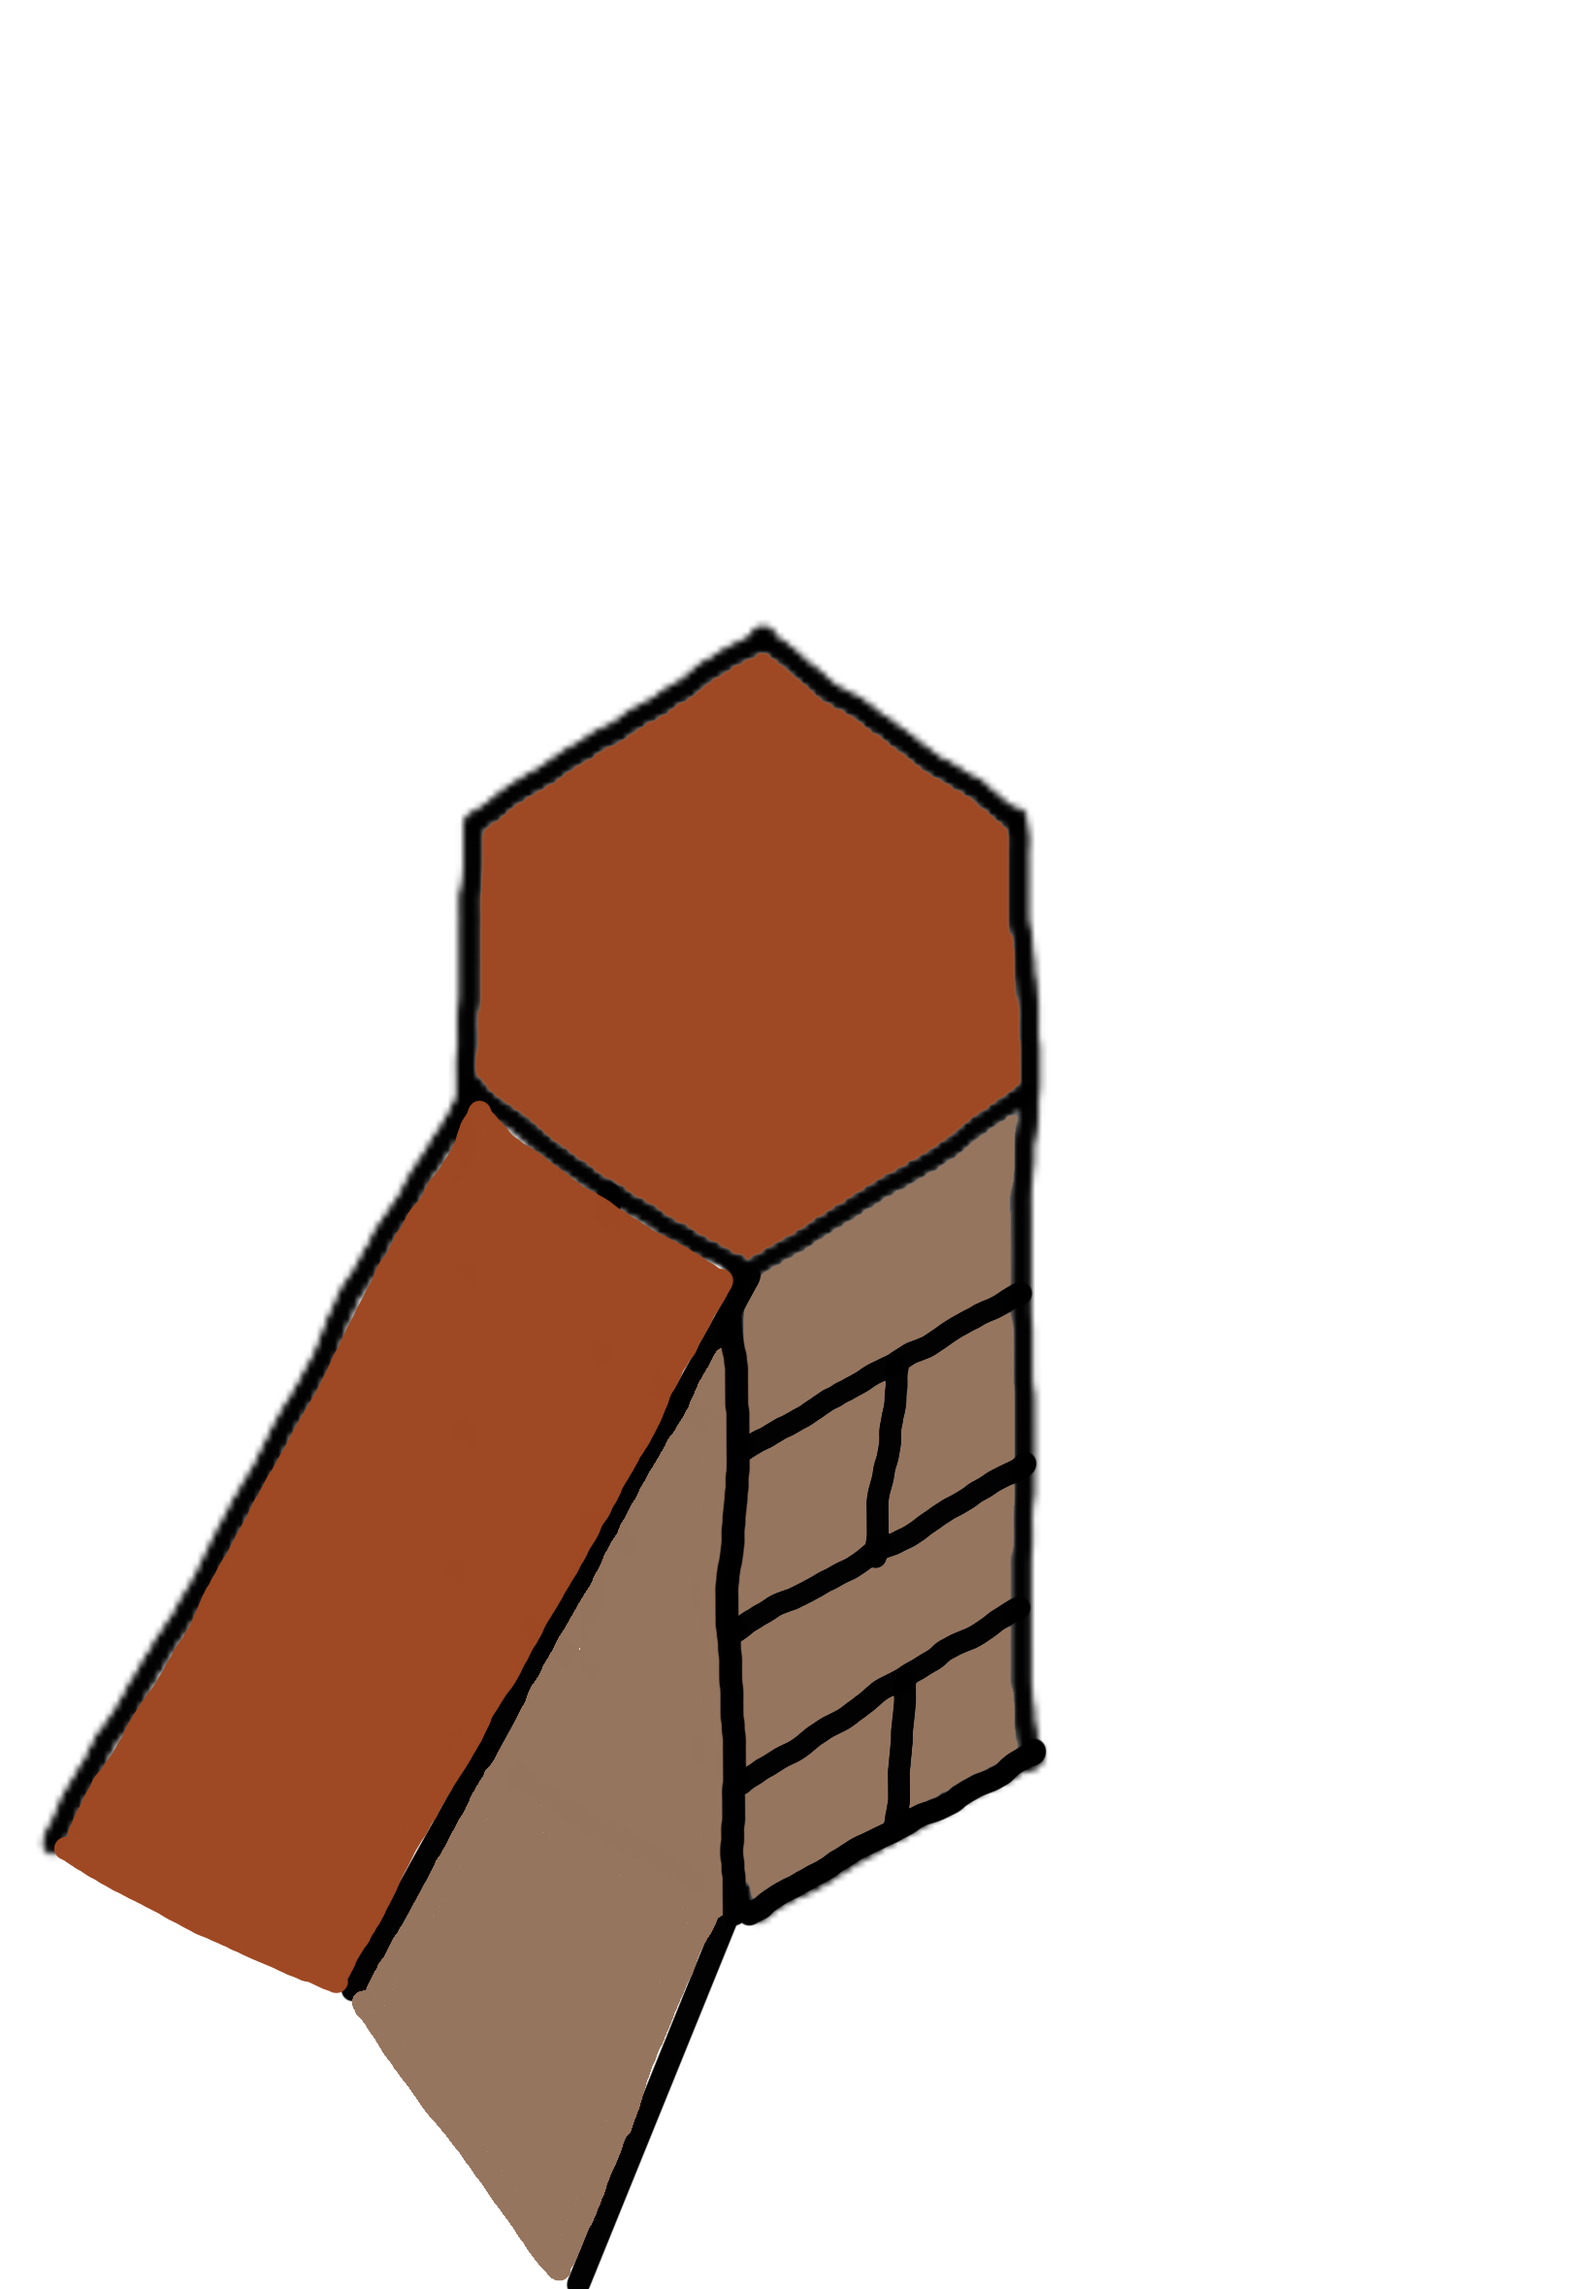
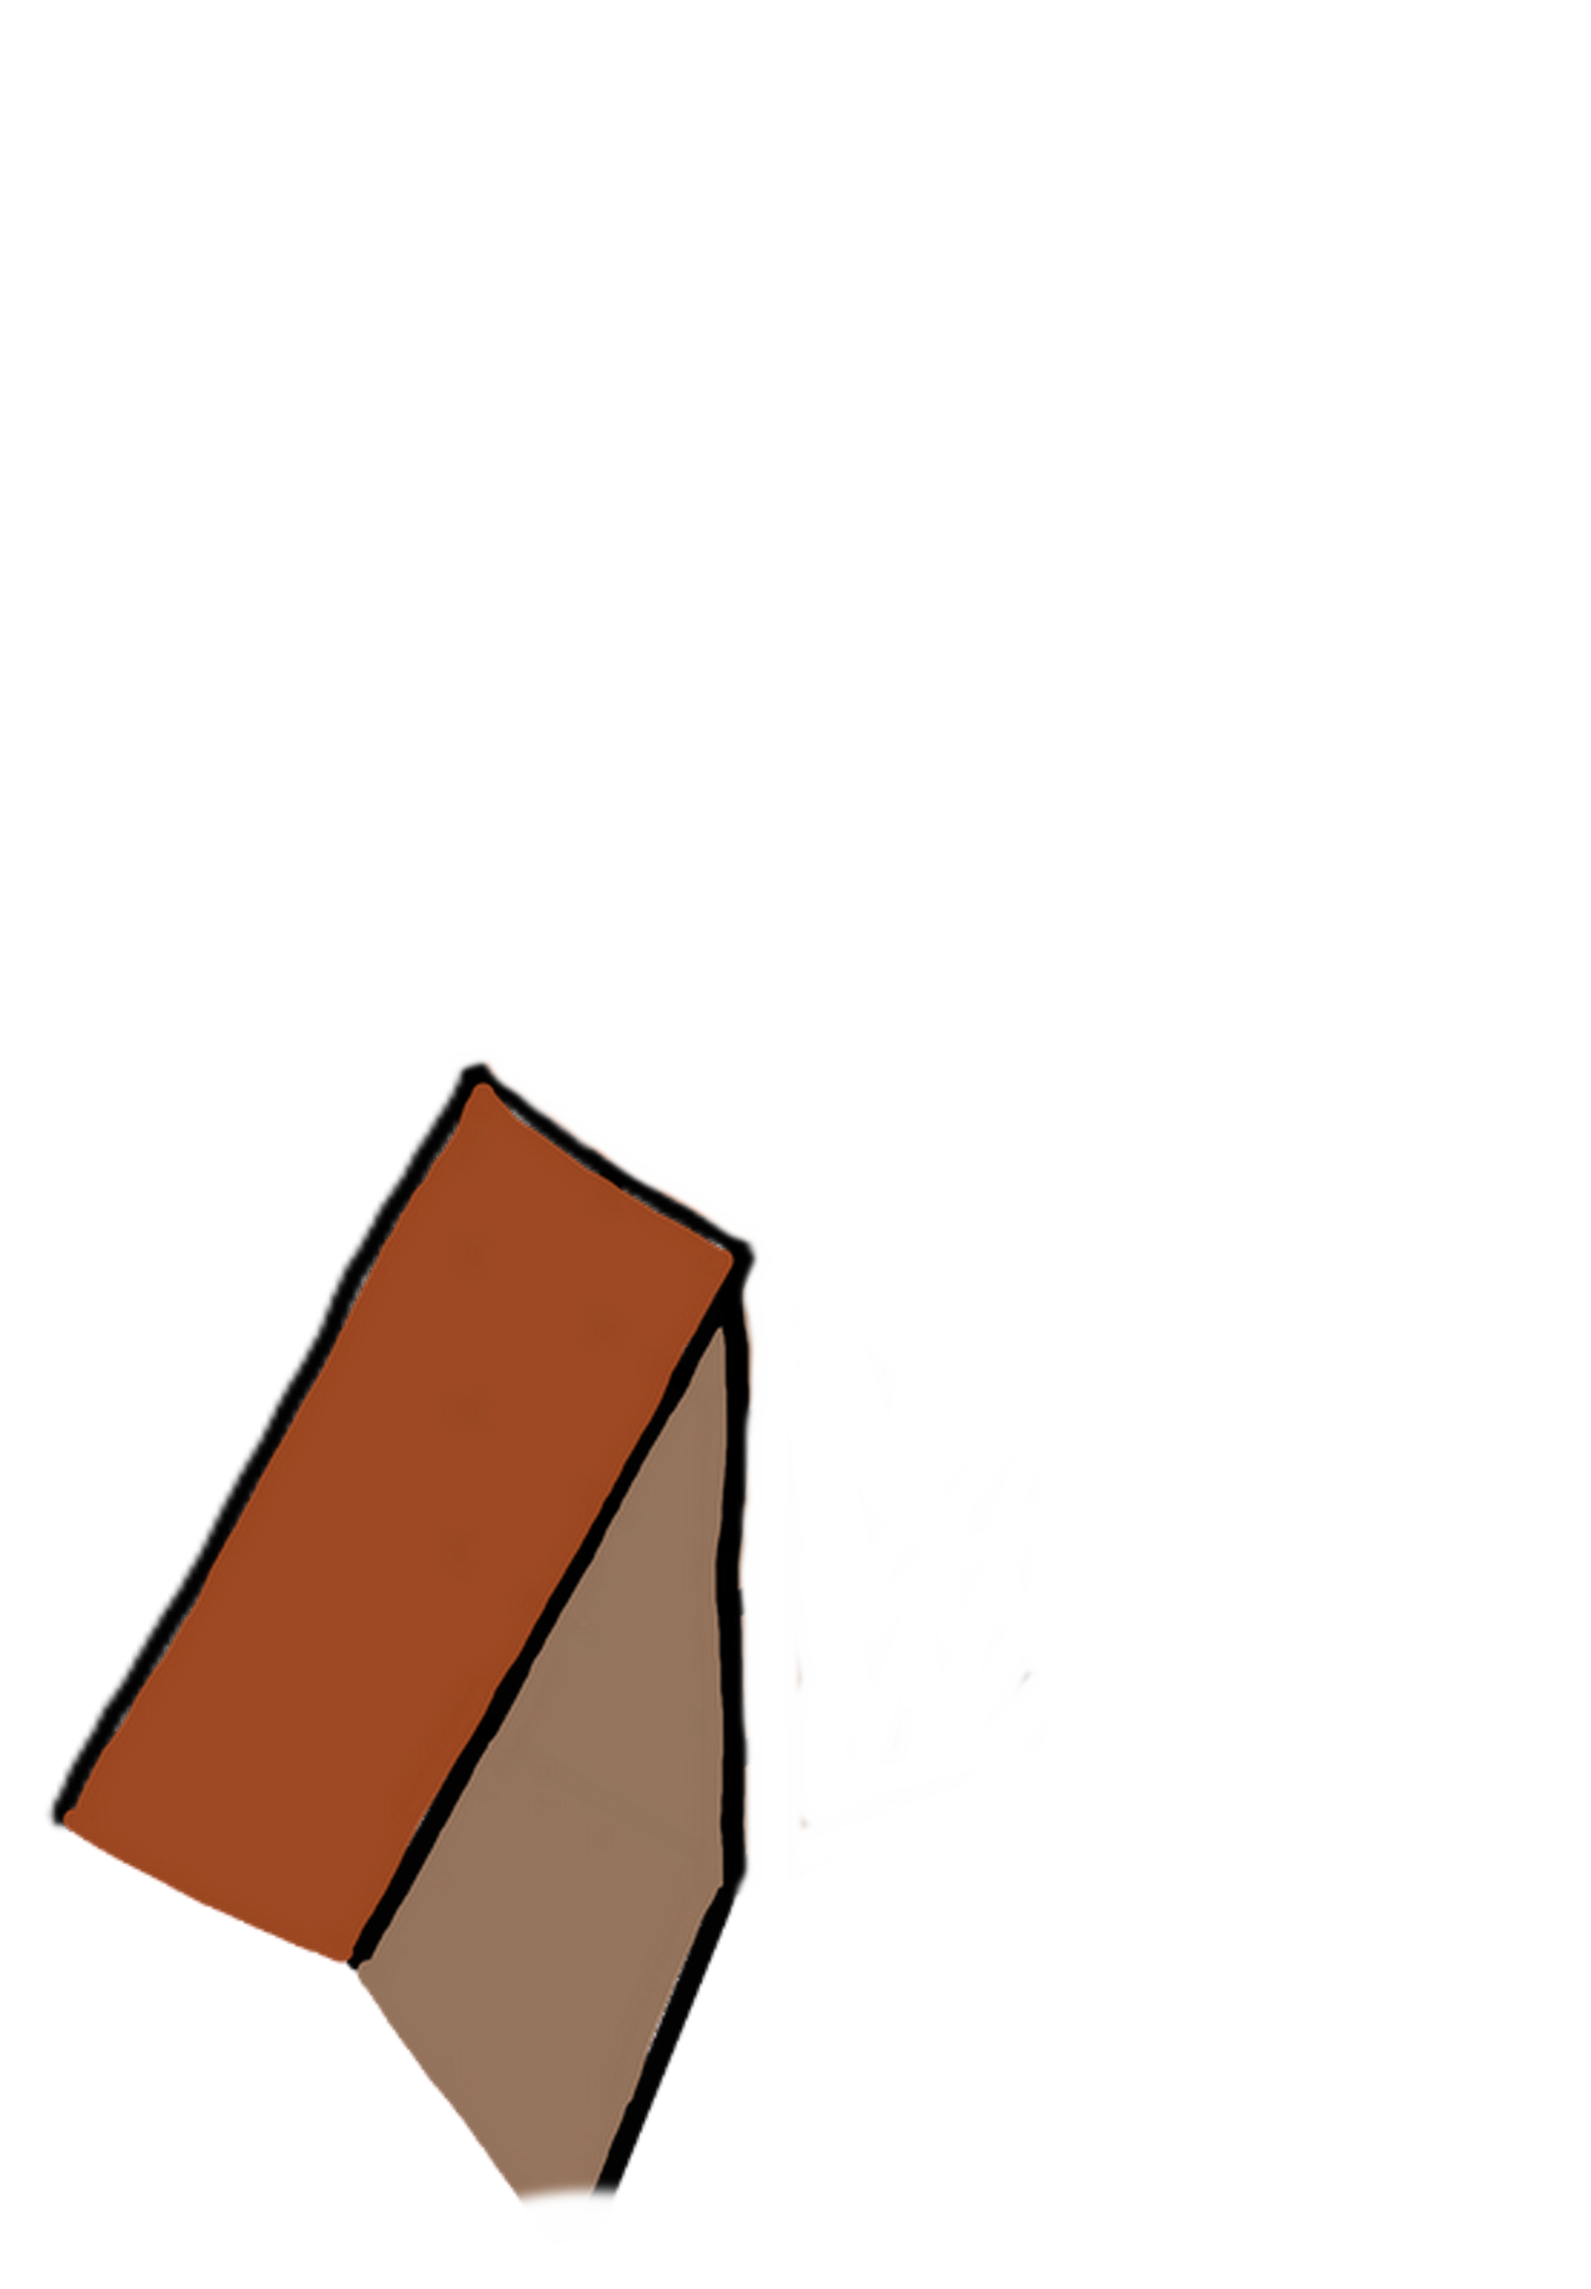
fix murs

diff --git a/frontend/affichage.js b/frontend/affichage.js
@@ -582,11 +582,16 @@ if (col % 2 != 0) {//odd column
     }
 
 
-    if (retour.length==0){
-        retour = ["centre"]
-    }
+    var retouryahou = []
+    if (retour.length==0){retour = ["centre"]}
+    if (retour.includes("hautdroite")){retouryahou.push("hautdroite")}
+    if (retour.includes("hautgauche")){retouryahou.push("hautgauche")}
+    if (retour.includes("droite")){retouryahou.push("droite")}
+    if (retour.includes("gauche")){retouryahou.push("gauche")}
+    if (retour.includes("basdroite")){retouryahou.push("basdroite")}
+    if (retour.includes("basgauche")){retouryahou.push("basgauche")}
 
-    return retour;
+    return retouryahou;
 
 
 

diff --git a/backend/classes/game.js b/backend/classes/game.js
@@ -99,7 +99,10 @@ class game {
             570: new maison(570,joueur),
             664: new maison(664,joueur),
             636: new maison(636,joueur),
-
+            578: new mur(578,joueur),
+            608: new mur(608,joueur),
+            549: new mur(549,joueur),
+            579: new mur(579,joueur),
             //Platées
             524:new hoplite(524,joueur),
             434:new hoplite(434,joueur),
